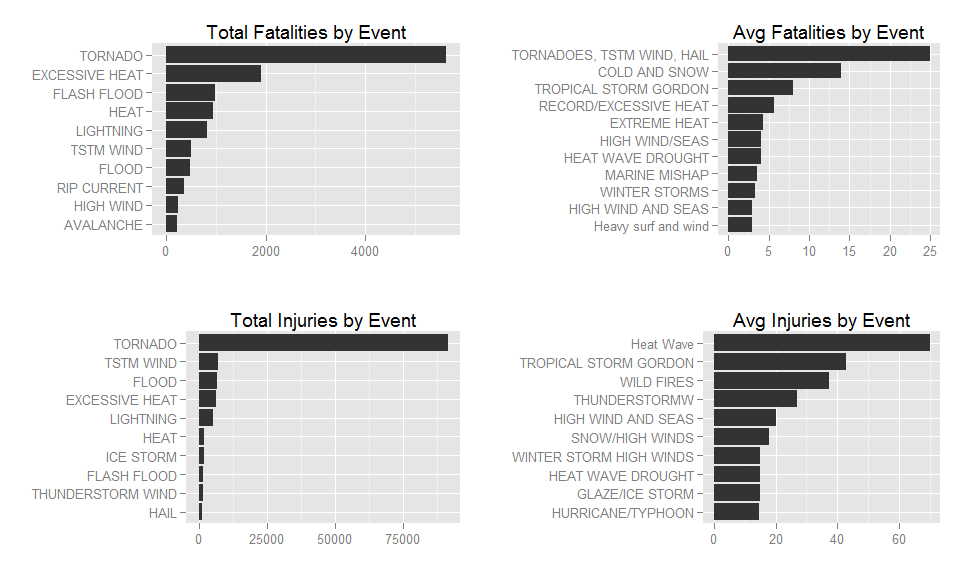
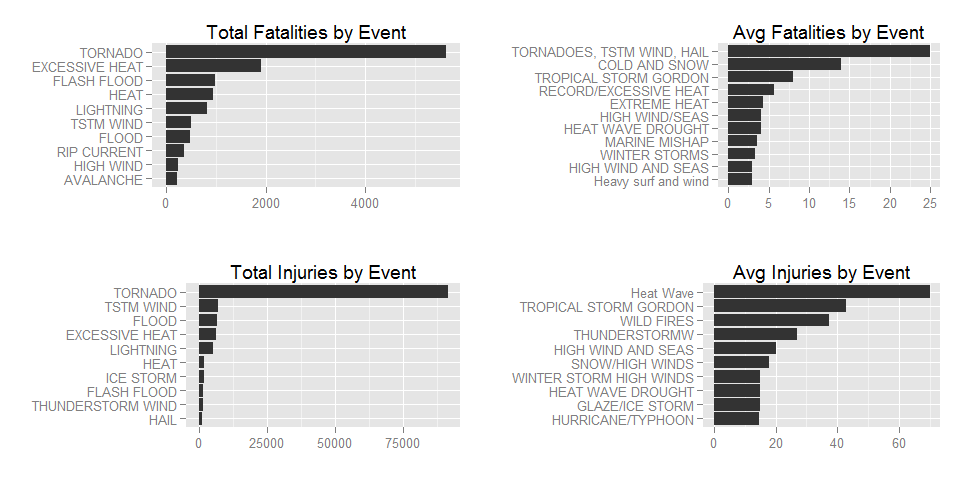
new function rocks

diff --git a/NOAAEvents.html b/NOAAEvents.html
@@ -119,50 +119,32 @@ Stormdata &lt;- Stormdata %&gt;% group_by(EVTYPE) %&gt;% summarise_each(funs(sum
 <h3>Weather event impact on health</h3>
 <p>We start by calculating the top 10 for each bucket, then plot using ggplot2!</p>
 <pre class="r"><code># For each measure, calculate top 10
-fatalities_sum &lt;- Stormdata %&gt;% 
-    select(EVTYPE,FATALITIES_sum) %&gt;% 
-    arrange(desc(FATALITIES_sum)) %&gt;% 
-    rename(Measure = FATALITIES_sum) %&gt;%
-    top_n(10,Measure)
-fatalities_sum$measure &lt;- &quot;Total&quot;
-fatalities_sum$type &lt;- &quot;Fatalities&quot;
-fatalities_mean &lt;- Stormdata %&gt;% 
-    select(EVTYPE,FATALITIES_mean) %&gt;% 
-    arrange(desc(FATALITIES_mean)) %&gt;% 
-    rename(Measure = FATALITIES_mean) %&gt;%
-    top_n(10,Measure)
-fatalities_mean$measure &lt;- &quot;Average&quot;
-fatalities_mean$type &lt;- &quot;Fatalities&quot;
-injuries_sum &lt;- Stormdata %&gt;% 
-    select(EVTYPE,INJURIES_sum) %&gt;% 
-    arrange(desc(INJURIES_sum)) %&gt;% 
-    rename(Measure = INJURIES_sum) %&gt;%
-    top_n(10,Measure)
-injuries_sum$measure &lt;- &quot;Total&quot;
-injuries_sum$type &lt;- &quot;Injuries&quot;
-injuries_mean &lt;- Stormdata %&gt;% 
-    select(EVTYPE,INJURIES_mean) %&gt;% 
-    arrange(desc(INJURIES_mean)) %&gt;%
-    rename(Measure = INJURIES_mean) %&gt;%
-    top_n(10,Measure)
-injuries_mean$measure &lt;- &quot;Average&quot;
-injuries_mean$type &lt;- &quot;Injuries&quot;
-healthevents &lt;- rbind_list(fatalities_sum,fatalities_mean,injuries_sum,injuries_mean)</code></pre>
-<pre class="r"><code>g1 &lt;- ggplot(data=fatalities_sum, aes(x=reorder(EVTYPE,Measure), y=Measure)) + 
-        geom_bar(stat=&quot;identity&quot;) + 
-        coord_flip() + labs(title=&quot;Total Fatalities by Event&quot;) + xlab(&quot;&quot;) + ylab(&quot;&quot;)
-g2 &lt;- ggplot(data=fatalities_mean, aes(x=reorder(EVTYPE,Measure), y=Measure)) + 
-        geom_bar(stat=&quot;identity&quot;) +
-        coord_flip() + labs(title=&quot;Avg Fatalities by Event&quot;) + xlab(&quot;&quot;) + ylab(&quot;&quot;)
-g3 &lt;- ggplot(data=injuries_sum, aes(x=reorder(EVTYPE,Measure), y=Measure)) + 
-        geom_bar(stat=&quot;identity&quot;) +
-        coord_flip() + labs(title=&quot;Total Injuries by Event&quot;) + xlab(&quot;&quot;) + ylab(&quot;&quot;)
-g4 &lt;- ggplot(data=injuries_mean, aes(x=reorder(EVTYPE,Measure), y=Measure)) + 
-        geom_bar(stat=&quot;identity&quot;) +
-        coord_flip() + labs(title=&quot;Avg Injuries by Event&quot;) + xlab(&quot;&quot;) + ylab(&quot;&quot;)
+fatalities_sum &lt;- Stormdata %&gt;% select(EVTYPE,FATALITIES_sum) %&gt;% 
+    arrange(desc(FATALITIES_sum)) %&gt;% rename(Measure = FATALITIES_sum) %&gt;%top_n(10,Measure)
+fatalities_mean &lt;- Stormdata %&gt;% select(EVTYPE,FATALITIES_mean) %&gt;% 
+    arrange(desc(FATALITIES_mean)) %&gt;% rename(Measure = FATALITIES_mean) %&gt;% top_n(10,Measure)
+injuries_sum &lt;- Stormdata %&gt;% select(EVTYPE,INJURIES_sum) %&gt;% 
+    arrange(desc(INJURIES_sum)) %&gt;% rename(Measure = INJURIES_sum) %&gt;% top_n(10,Measure)
+injuries_mean &lt;- Stormdata %&gt;% select(EVTYPE,INJURIES_mean) %&gt;%
+    arrange(desc(INJURIES_mean)) %&gt;% rename(Measure = INJURIES_mean) %&gt;% top_n(10,Measure)</code></pre>
+<pre class="r"><code># Multiplot using ggplot2 and gridExtra
+noaaplot &lt;- function(datain,titlein) {
+    ggplot(data=datain, aes(x=reorder(EVTYPE,Measure), y=Measure)) +
+        geom_bar(stat=&quot;identity&quot;) + coord_flip() + 
+        labs(title=titlein) + xlab(&quot;&quot;) + ylab(&quot;&quot;)
+}
+g1 &lt;- noaaplot(fatalities_sum,&quot;Total Fatalities by Event&quot;)
+g2 &lt;- noaaplot(fatalities_mean,&quot;Avg Fatalities by Event&quot;)
+g3 &lt;- noaaplot(injuries_sum,&quot;Total Injuries by Event&quot;)
+g4 &lt;- noaaplot(injuries_mean,&quot;Avg Injuries by Event&quot;)
 grid.arrange(g1, g2, g3,g4,ncol=2,nrow=2)</code></pre>
[1 lines of base64/hex data omitted]
-<p>Results show that Tornadoes dominate the sources of weather-related fatalities &amp; injuries in the US, followed by excessive heat and floods. On average, however</p>
[1 lines of base64/hex data omitted]
+<p>Results show that Tornadoes dominate the sources of weather-related fatalities &amp; injuries in the US, followed by excessive heat and floods. On average, however, specific smaller events have the largest death &amp; injury toll (cold &amp; snow, tropical storm gordon, high wind/seas).</p>
+<p>This data therefore helps assess the risk of different events in regards to human fatalities and injuries, in particular the fact that some rarer events should not be discounted.</p>
+</div>
+<div id="weather-impact-on-economy" class="section level3">
+<h3>Weather impact on economy</h3>
+<p>We start by calculating the top 10 for each bucket, then plot using ggplot2!</p>
 </div>
 </div>
 

diff --git a/NOAAEvents.md b/NOAAEvents.md
@@ -67,54 +67,37 @@ We start by calculating the top 10 for each bucket, then plot using ggplot2!
 
 ```r
 # For each measure, calculate top 10
-fatalities_sum <- Stormdata %>% 
-    select(EVTYPE,FATALITIES_sum) %>% 
-    arrange(desc(FATALITIES_sum)) %>% 
-    rename(Measure = FATALITIES_sum) %>%
-    top_n(10,Measure)
-fatalities_sum$measure <- "Total"
-fatalities_sum$type <- "Fatalities"
-fatalities_mean <- Stormdata %>% 
-    select(EVTYPE,FATALITIES_mean) %>% 
-    arrange(desc(FATALITIES_mean)) %>% 
-    rename(Measure = FATALITIES_mean) %>%
-    top_n(10,Measure)
-fatalities_mean$measure <- "Average"
-fatalities_mean$type <- "Fatalities"
-injuries_sum <- Stormdata %>% 
-    select(EVTYPE,INJURIES_sum) %>% 
-    arrange(desc(INJURIES_sum)) %>% 
-    rename(Measure = INJURIES_sum) %>%
-    top_n(10,Measure)
-injuries_sum$measure <- "Total"
-injuries_sum$type <- "Injuries"
-injuries_mean <- Stormdata %>% 
-    select(EVTYPE,INJURIES_mean) %>% 
-    arrange(desc(INJURIES_mean)) %>%
-    rename(Measure = INJURIES_mean) %>%
-    top_n(10,Measure)
-injuries_mean$measure <- "Average"
-injuries_mean$type <- "Injuries"
-healthevents <- rbind_list(fatalities_sum,fatalities_mean,injuries_sum,injuries_mean)
+fatalities_sum <- Stormdata %>% select(EVTYPE,FATALITIES_sum) %>% 
+    arrange(desc(FATALITIES_sum)) %>% rename(Measure = FATALITIES_sum) %>%top_n(10,Measure)
+fatalities_mean <- Stormdata %>% select(EVTYPE,FATALITIES_mean) %>% 
+    arrange(desc(FATALITIES_mean)) %>% rename(Measure = FATALITIES_mean) %>% top_n(10,Measure)
+injuries_sum <- Stormdata %>% select(EVTYPE,INJURIES_sum) %>% 
+    arrange(desc(INJURIES_sum)) %>% rename(Measure = INJURIES_sum) %>% top_n(10,Measure)
+injuries_mean <- Stormdata %>% select(EVTYPE,INJURIES_mean) %>%
+    arrange(desc(INJURIES_mean)) %>% rename(Measure = INJURIES_mean) %>% top_n(10,Measure)
 ```
 
 
 ```r
-g1 <- ggplot(data=fatalities_sum, aes(x=reorder(EVTYPE,Measure), y=Measure)) + 
-        geom_bar(stat="identity") + 
-        coord_flip() + labs(title="Total Fatalities by Event") + xlab("") + ylab("")
-g2 <- ggplot(data=fatalities_mean, aes(x=reorder(EVTYPE,Measure), y=Measure)) + 
-        geom_bar(stat="identity") +
-        coord_flip() + labs(title="Avg Fatalities by Event") + xlab("") + ylab("")
-g3 <- ggplot(data=injuries_sum, aes(x=reorder(EVTYPE,Measure), y=Measure)) + 
-        geom_bar(stat="identity") +
-        coord_flip() + labs(title="Total Injuries by Event") + xlab("") + ylab("")
-g4 <- ggplot(data=injuries_mean, aes(x=reorder(EVTYPE,Measure), y=Measure)) + 
-        geom_bar(stat="identity") +
-        coord_flip() + labs(title="Avg Injuries by Event") + xlab("") + ylab("")
+# Multiplot using ggplot2 and gridExtra
+noaaplot <- function(datain,titlein) {
+    ggplot(data=datain, aes(x=reorder(EVTYPE,Measure), y=Measure)) +
+        geom_bar(stat="identity") + coord_flip() + 
+        labs(title=titlein) + xlab("") + ylab("")
+}
+g1 <- noaaplot(fatalities_sum,"Total Fatalities by Event")
+g2 <- noaaplot(fatalities_mean,"Avg Fatalities by Event")
+g3 <- noaaplot(injuries_sum,"Total Injuries by Event")
+g4 <- noaaplot(injuries_mean,"Avg Injuries by Event")
 grid.arrange(g1, g2, g3,g4,ncol=2,nrow=2)
 ```
 
 ![](NOAAEvents_files/figure-html/unnamed-chunk-4-1.png) 
 
-Results show that Tornadoes dominate the sources of weather-related fatalities & injuries in the US, followed by excessive heat and floods. On average, however
+Results show that Tornadoes dominate the sources of weather-related fatalities & injuries in the US, followed by excessive heat and floods. On average, however, specific smaller events have the largest death & injury toll (cold & snow, tropical storm gordon, high wind/seas). 
+
+This data therefore helps assess the risk of different events in regards to human fatalities and injuries, in particular the fact that some rarer events should not be discounted.
+
+### Weather impact on economy
+
+We start by calculating the top 10 for each bucket, then plot using ggplot2!
